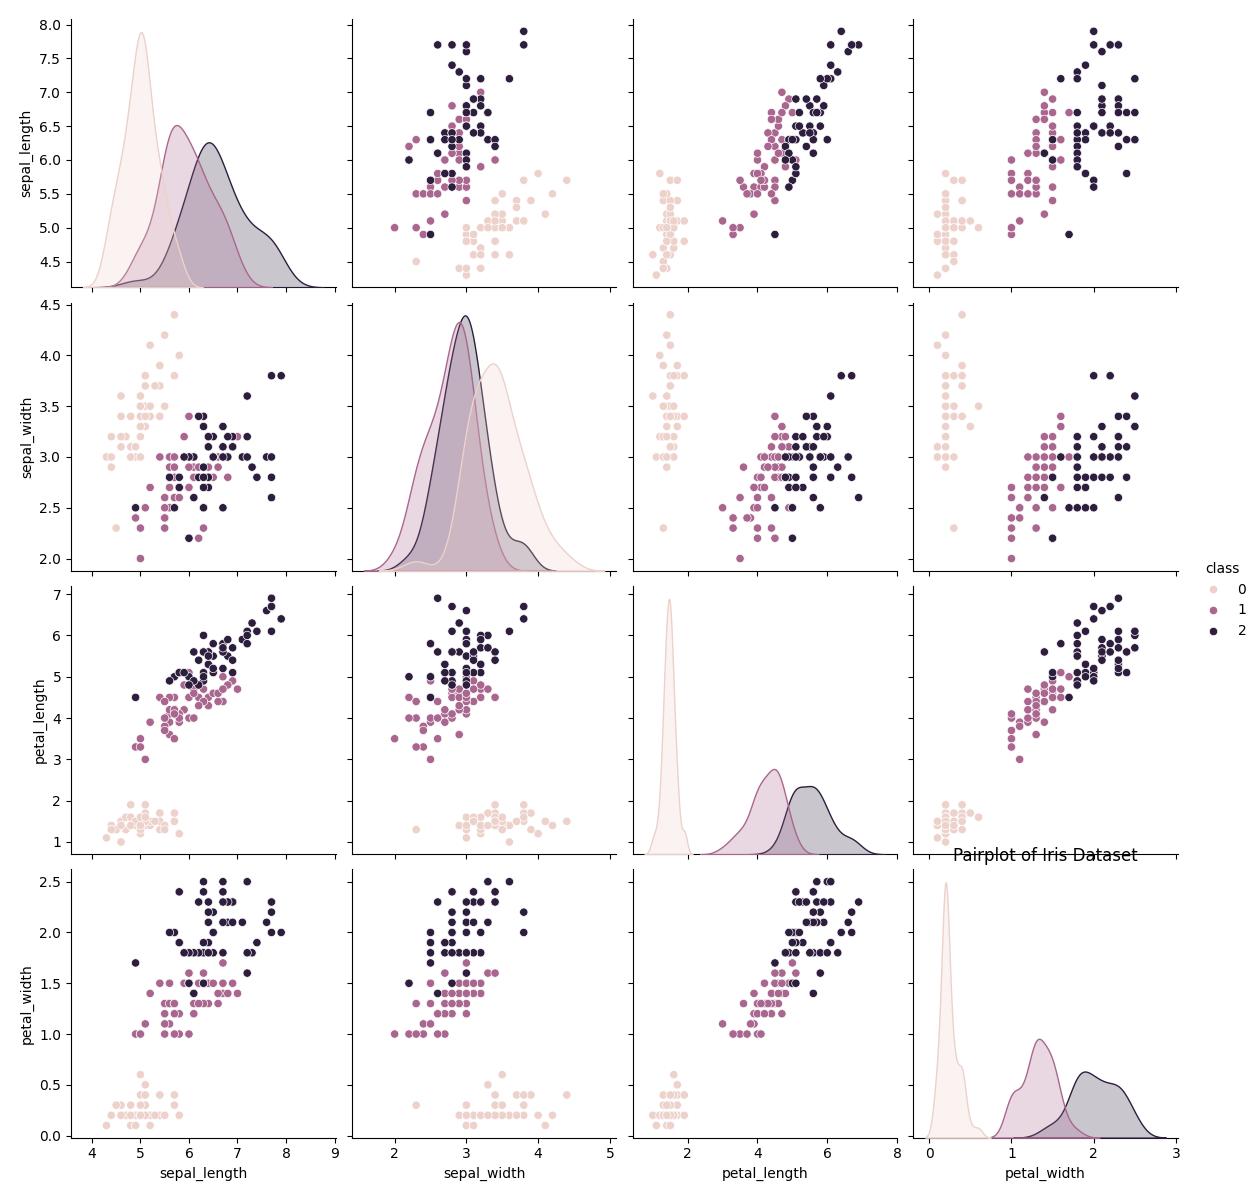
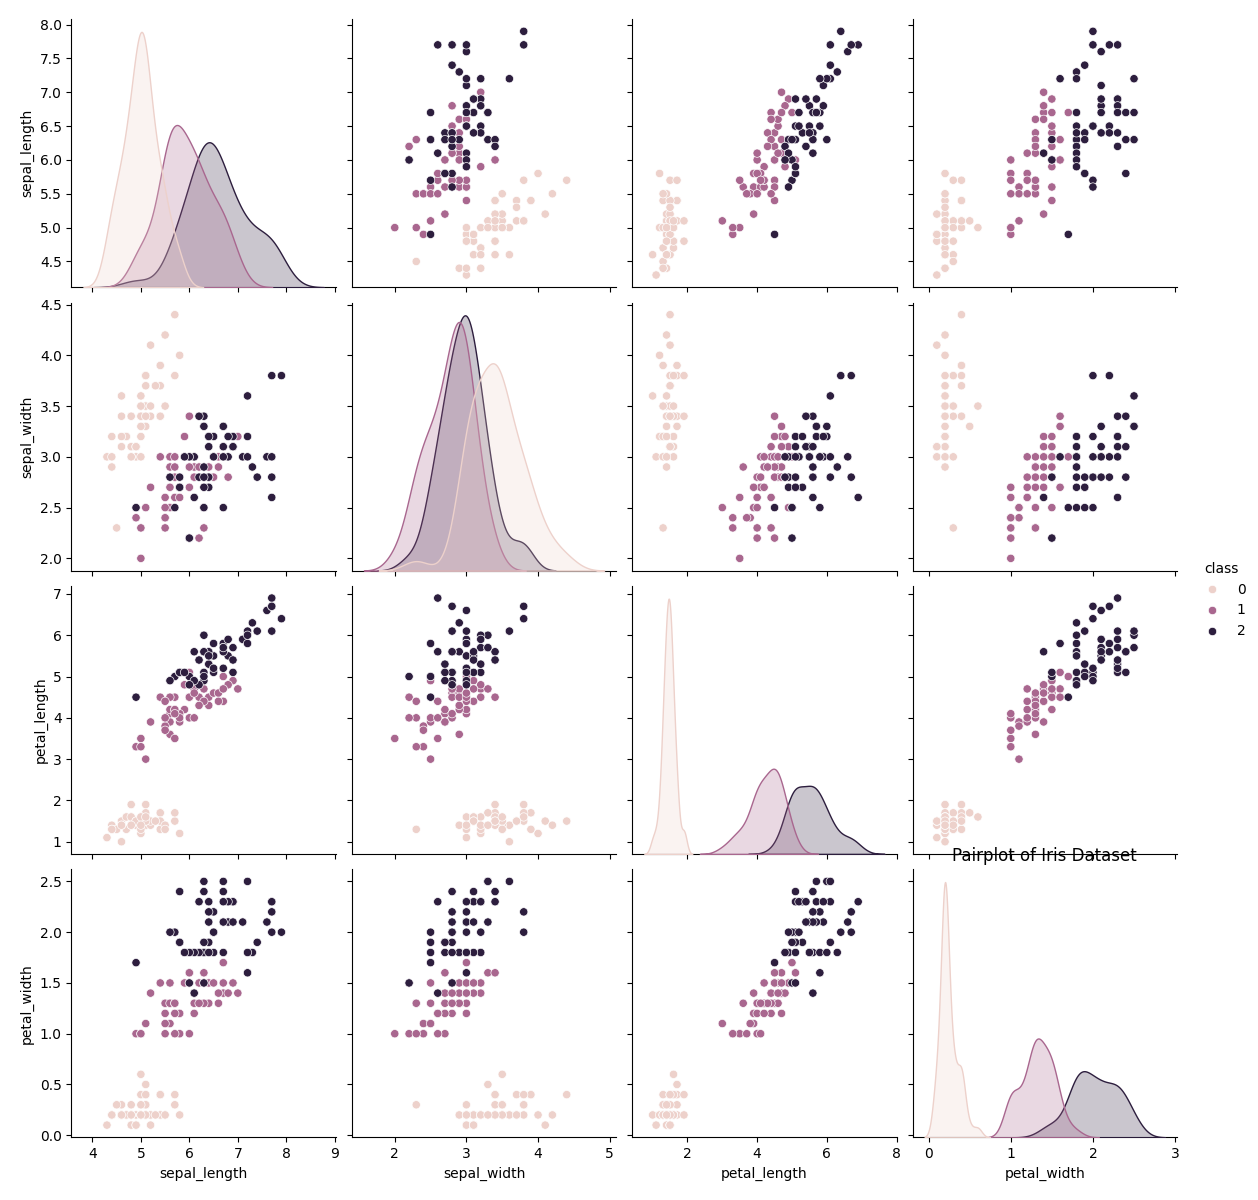
Update README with results and visualizations

diff --git a/README.md b/README.md
@@ -37,6 +37,8 @@ It also saves visual output under `Data Visualization/`, including:
 - A confusion matrix for the training set
 - A confusion matrix for the test set
 
+It also produces a saved model-comparison output image at `iris-comparison-models.png`.
+
 ## Project layout
 
 `main.py` contains the full training and evaluation pipeline.
@@ -79,6 +81,24 @@ python3 main.py
 ```
 
 The script prints the original dataset, preprocessing checks, per-model evaluation output, and a final comparison table in the terminal.
+
+## Results
+
+Console log of Model Comparison result:
+<img src="iris-comparison-models.png" alt="Model comparison results" width="900" />
+
+Generated visualization charts:
+### Preprocessed Dataset Pairplot
+
+<img src="Data%20Visualization/Visualization%20of%20Preprocessed%20Dataset.png" alt="Preprocessed dataset pairplot" width="700" />
+
+### Training Set Confusion Matrix
+
+<img src="Data%20Visualization/Confusion%20Matrix%20for%20Iris%20Dataset%20Training%20Set.png" alt="Training set confusion matrix" width="520" />
+
+### Test Set Confusion Matrix
+
+<img src="Data%20Visualization/Confusion%20Matrix%20for%20Iris%20Dataset%20Test%20Set.png" alt="Test set confusion matrix" width="520" />
 
 ## Dataset
 
